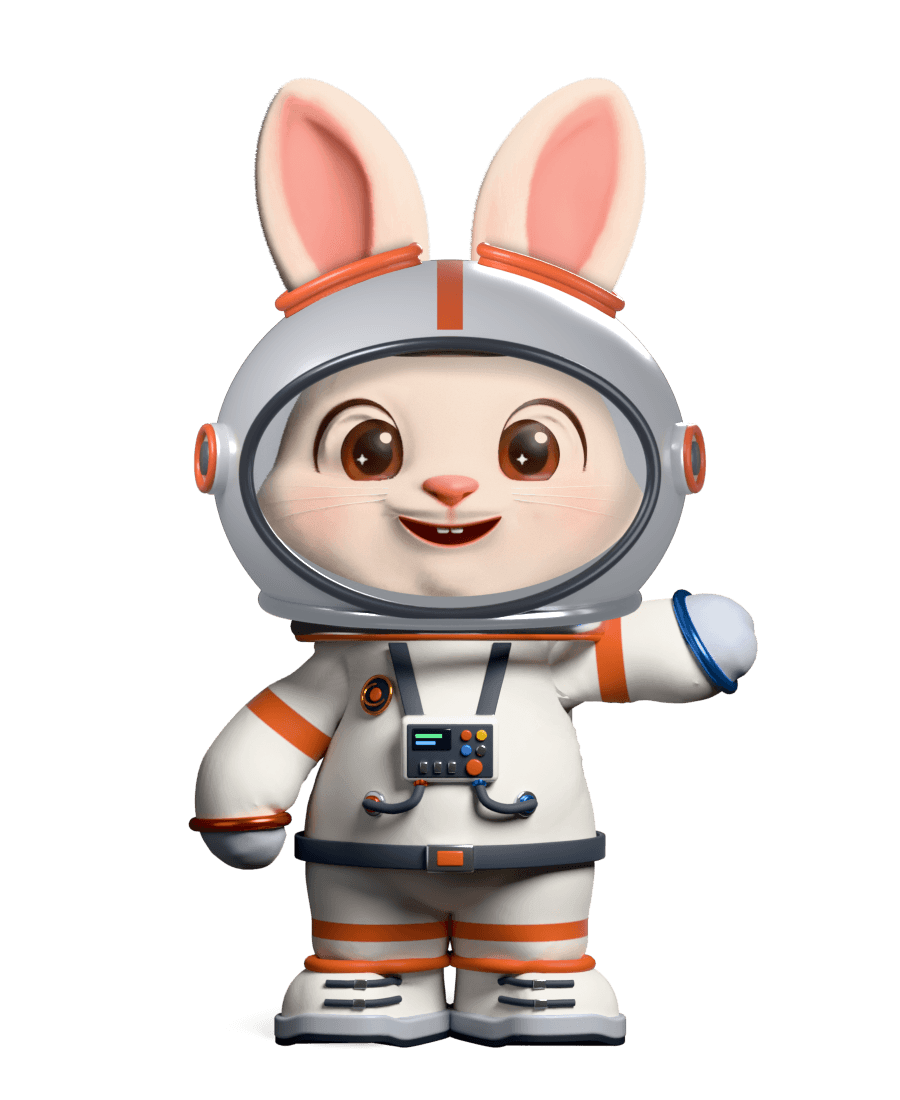
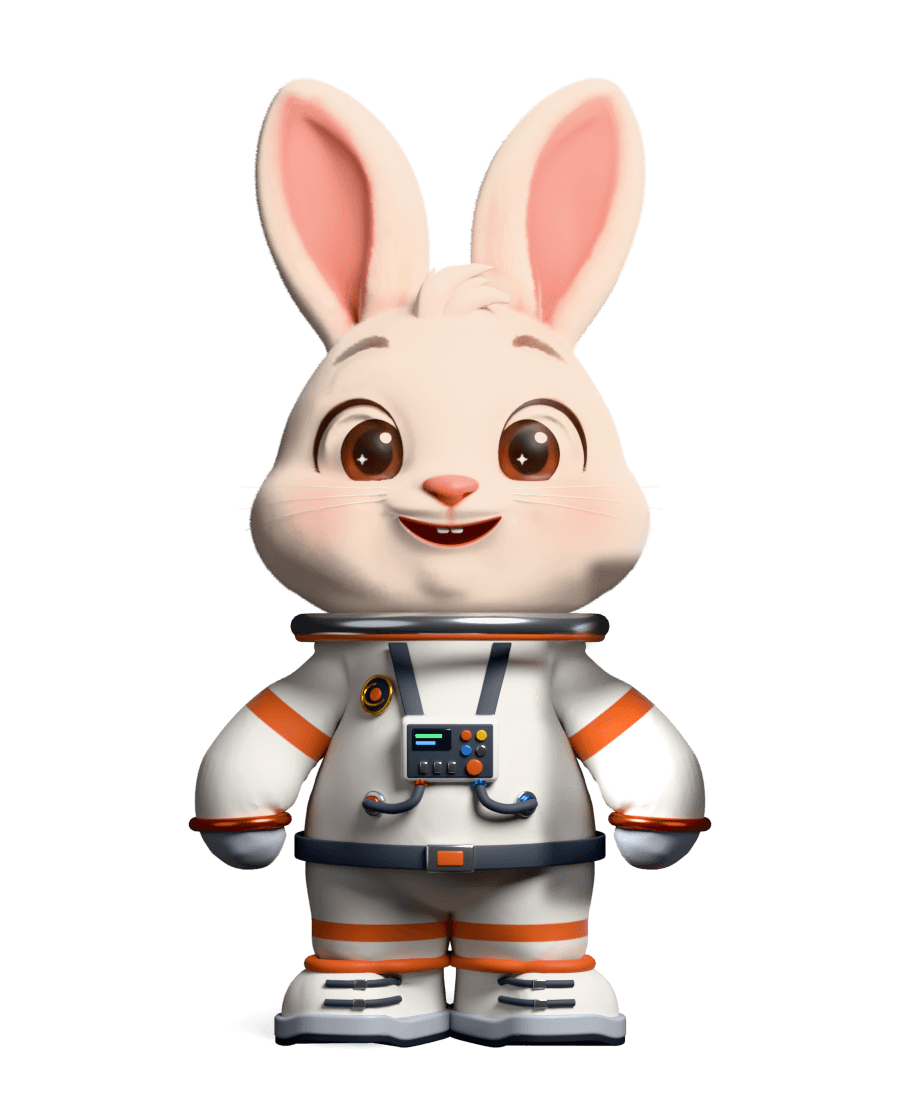
Rabi'yi Giydir: Astronot Rabi kasksız, iki kolu aşağıda
- Kask kaldırıldı (kullanıcı istedi); kulaklar dik.
- Sallayan sağ kol indirildi: aşağıdaki sol kolun gövde eksenine göre
  aynası, yumuşak kenarla ve bacaklardan ölçülen parlaklık oranıyla.
- İkon yeniden kırpıldı; maskot kuralı yeni duruşa göre yazıldı.

Claude-Session: https://claude.ai/code/session_01N5eM5Zhn9zt8LXE1kyh4Qh

Changed region(s): [[0.2178, 0.2164, 0.84, 0.8345]]

diff --git a/docs/kurallar/maskot-ve-ikon.md b/docs/kurallar/maskot-ve-ikon.md
@@ -154,24 +154,15 @@ Rabi proje kurallarının bir parçası — dizin ve genel kurallar: [AGENTS.md]
   görsel, `hazir: true`, yuva kayıt biçimi için `boyun`. Her biri kendi sahnesinde
   (`rabi_<id>.blend`, `<id>_kur.py`, `<id>_katman.py`); ortak üretim rehberi
   `giydir-betikleri/AVATAR_REHBER.md` (kamera, kalite dersleri).
-  - Astronot Rabi (`astronot`, kullanıcı istedi, 2026-11-02): uzay giysisi; **kask başta,
-    kulaklar kaskın tepesindeki iki turuncu kulak yuvasından dışarı çıkar** (kullanıcı istedi,
-    2026-11-03). Denenip beğenilmeyenler: kulakları gizleyen, alnı altın güneşlikle örten kask
-    (ilk sürüm) ve kaskın sağ elde sarkması. Kulak yuvası düz halka değil kısa kovan + lastik
-    dudak: önden bakınca düz halka çizgi gibi okunuyordu. Tepede önden arkaya turuncu şerit,
-    yanlarda turuncu halkalı açık gri diskler, altın güneşlik yukarıda (açıklığın tepesinde
-    ince şerit). Cam yalnız Fresnel yansıması + yumuşak pencere ışığı: yansıma paneli yüze
-    denk gelince gözün yanında dikdörtgen leke bırakıyordu.
-    **Renkler ilk (Gemini) kaskınınki** (kullanıcı istedi, 2026-11-04): nötr gümüş kabuk
-    (sRGB 208,208,212, yarı metalik), vizör çevresinde koyu arduvaz çerçeve (62,66,76),
-    turuncu 214,84,30 (giysi şeritleri); pozlama −0,6. Denenip uyumsuz bulunanlar: saf beyaz
-    kabuk + mavi diskler (patlamış), giysinin krem beyazı + açık gümüş çerçeve.
-    - Kask kasksız render'ın üstüne **bindirilir** (`astronot_kask.py` Blender'da kaskı
-      kurup katmanları çizer, `astronot_birlestir.py` birleştirir): arka kabuk → Rabi → ön
-      kabuk → yuvanın arka yayı → kulağın dışarıdaki kısmı → yuvanın ön yayı. Ön/arka
-      ayrımı kameraya dik düzlemle; perçem ön kabuğun altında kalır. Kaskın yüze ve
-      omza düşürdüğü gölge kafa/gövde vekilinden `1 − B/A` ile alınır; kulak kökü yalnız
-      dudak yayı boyunca karartılır (bindirme çokgeninin yan kenarı kulakta dikiş bırakıyordu).
+  - Astronot Rabi (`astronot`, kullanıcı istedi, 2026-11-02): uzay giysisi, **kask yok, iki
+    kol yanda aşağıda** (kullanıcı istedi, 2026-11-04: "kaskı kaldır, eli havada olmasın").
+    Kask başa, ele ve kulak yuvalı olarak denendi, hiçbiri giysiyle uyumlu bulunmadı; geri
+    getirmeden sor. Kulaklar dik, kulak tüyü temel sahneden geri yazılı.
+    - İnik sağ kol, kasksız render'daki (sallayan) görselde aşağıdaki sol kolun x=450
+      eksenine göre aynası (`astronot_ayna.py`): sallayan kol x≥545, y 640–905 ve x≥588,
+      y 560–640 bölgesinde yumuşak kenarla değiştirilir; parlaklık iki bacağın oranıyla
+      eşlenir (anahtar ışık sağ yarıyı ~%20 aydınlık tutuyor). Göğüs paneli ve rozet
+      aynalanmaz (x<545). Blender sahnesinde poz değişirse bu adım kalkar.
     - Giysi `astronot_kur.py` → `rabi_astronot.blend`; yüz `astronot_doku.py`, çizim
       `astronot_katman.py`, sıkıştırma `astronot_sikistir.mjs`. Turuncu kol/paça şeritleri ve
       eldiven geçişi üçgen dişi yapmaması için düğüm ağacında `giysi_konum` ve `kol_maske`
